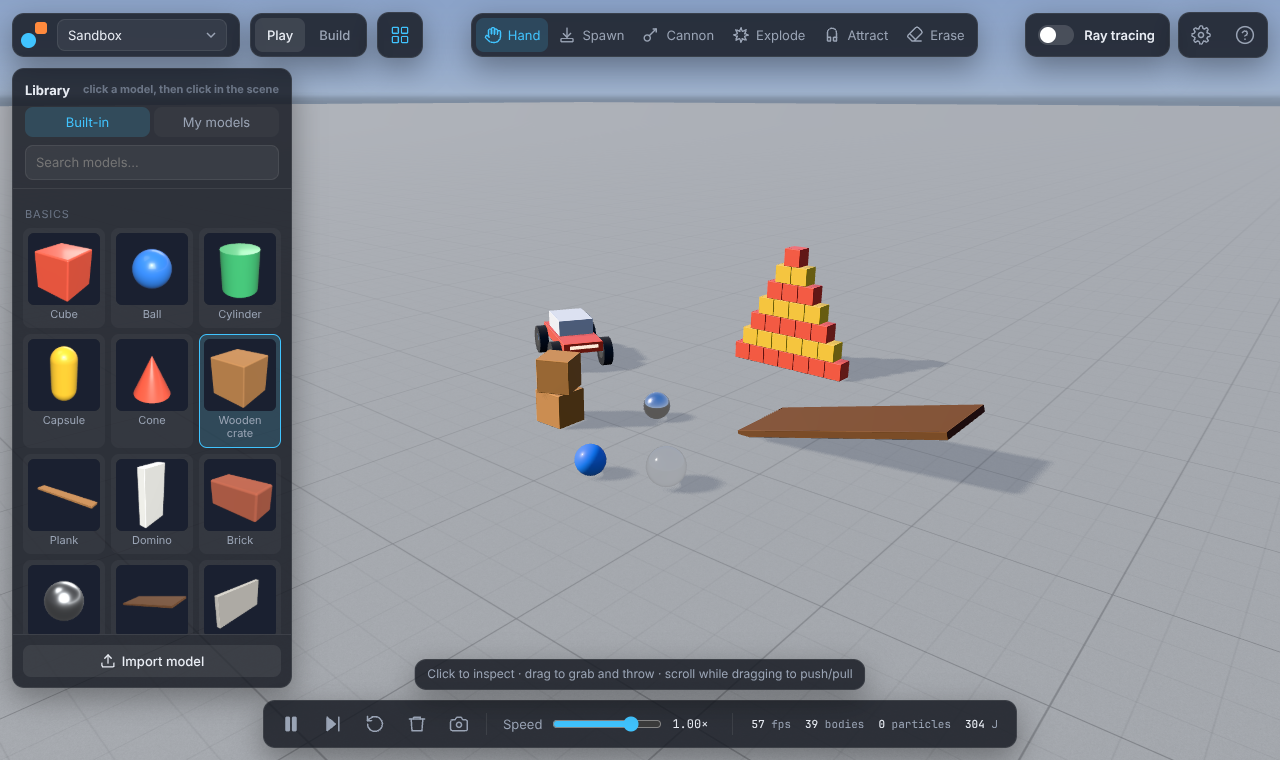
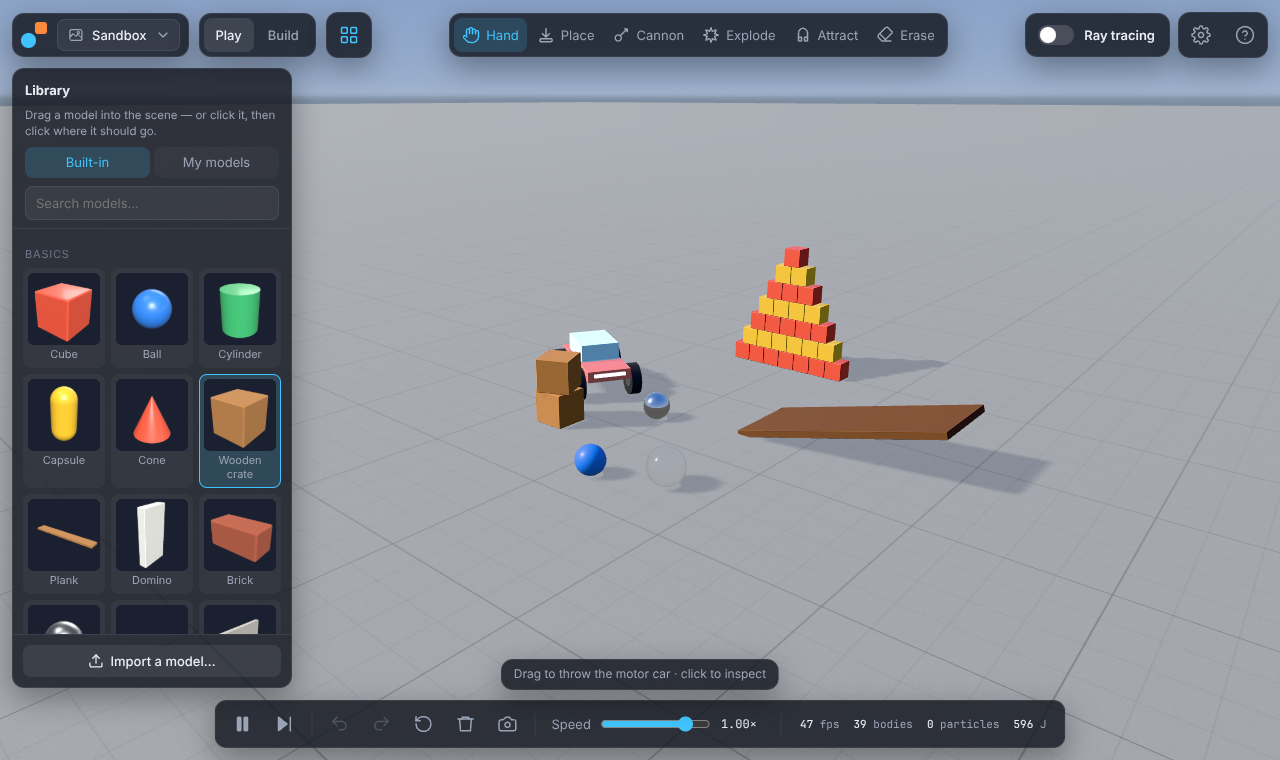
Docs: new controls, undo, Quick settings, scene gallery, Builder flow
Updates the README feature list and controls (Place tool, undo/redo,
drag-to-place, touch, Builder keys), the settings paths in the Blender
and Mac guides, and the sandbox screenshot for the new UI.

Claude-Session: https://claude.ai/code/session_016KG7xVeBGfcHsLQEUrtnxU

diff --git a/README.md b/README.md
@@ -18,6 +18,7 @@ Switch on **ray tracing** to see the scene with physically based light.
 
 ## What you can do
 
+- **Pick it up in a minute.** A short welcome and an optional guided tour on first launch. Objects light up under the cursor, and the hint bar says what a click will do. Drag any model from the library straight into the scene. Made a mess? **Undo** (Ctrl/⌘ + Z) takes back adds, deletes, explosions, throws and scene changes.
 - **Play.** Grab and throw objects; their mass matters. You also have a cannon, explosions, an attractor beam, an eraser, slow motion and single-frame stepping.
 - **Change the physics:**
   - gravity presets for Earth, Moon, Mars, Jupiter and zero-g
@@ -25,17 +26,19 @@ Switch on **ray tracing** to see the scene with physically based light.
   - attractor-only mode
   - wind with gusts, and air drag
   - solver settings
+
+  The common ones are big buttons under **Quick settings**: gravity, wind, speed, look and ray-tracing quality. Everything else is under **Advanced**.
 - **Ray tracing.** A progressive GPU path tracer ([three-gpu-pathtracer](https://github.com/gkjohnson/three-gpu-pathtracer)) renders:
   - soft shadows from a physically sized sun
   - reflections, glass and water refraction, and emissive lights
   - depth of field: double-click to focus
   - a denoiser, and photo export
 
-  While the simulation runs it shows a fast live preview. Pause, and the image converges.
+  While the simulation runs it shows a fast live preview. Press **Render still** (or pause), and the image converges; **Save** keeps the picture. Fast / Balanced / Best quality presets.
 - **Materials.** Each preset sets both the look and the physics: steel, chrome, gold, rubber, wood, glass, diamond, ice, foam, fabric, jelly, neon and more. Choosing *steel* makes the object 7,850 kg/m³ as well as shiny.
 - **Model library.** 60+ built-in models: basics, materials, machines (motor car, Newton's cradle, pendulum, wrecking ball, windmill, catapult, chain), structures (Jenga, dominoes, brick wall, bridge, Galton board, glass tank), soft & fluid (flags, curtain, trampoline, jelly, balloon, water, hose), space (stars and planets) and fun (ragdoll, bowling, teapot).
-- **15 scenarios:** Sandbox, Newton's Cradle, Domino Run, Jenga, Bowling, Wrecking Ball, Galton Board, Orbits, Three-Body Figure-8, Dam Break, Cloth Drape, Flag in the Wind, Jelly Playground, Glass Studio and Moon Base.
-- **Model Builder.** Assemble shapes into bodies and connect them with hinge, ball, fixed, slider, spring or rope joints, including limits and motors. Add cloth, jelly or water. Test-run the model, then save it to your library or export it as `.physmodel.json` or `.glb`.
+- **16 scenes in a gallery:** Sandbox, Empty World, Newton's Cradle, Domino Run, Jenga, Bowling, Wrecking Ball, Galton Board, Orbits, Three-Body Figure-8, Dam Break, Cloth Drape, Flag in the Wind, Jelly Playground, Glass Studio and Moon Base.
+- **Model Builder.** Assemble shapes into bodies with Move / Turn / Resize handles and optional snapping (5 cm, 15°). New shapes stack on the selected part instead of overlapping. Connect parts by picking a joint (hinge, ball, glue, slider, spring or rope), then clicking two parts, or one part and empty space to pin it to the world. Joints can have limits and motors. Add cloth, jelly or water. Test-run the model with every Play tool, then save it to your library or export it as `.glb` (for Blender) or `.physmodel.json`. A checklist walks you through your first model.
 - **Blender.** Import `.glb`, `.gltf`, `.obj` and `.stl`. The [Blender add-on](blender/physics_sim_addon.py) tags objects with physics settings and joints, then exports in one click. The Mac app hot-reloads every export. See **[docs/BLENDER.md](docs/BLENDER.md)**.
 - **Save and load whole scenes** as JSON.
 
@@ -57,17 +60,22 @@ Switch on **ray tracing** to see the scene with physically based light.
 
 | Key | Action |
 |---|---|
-| `1`–`6` | Hand · Spawn · Cannon · Explode · Attract · Erase |
+| `1`–`6` | Hand · Place · Cannon · Explode · Attract · Erase |
 | `Space` / `.` | Pause / step one frame |
-| `R` | Reset scenario |
+| `Ctrl/⌘ Z` / `Ctrl/⌘ ⇧ Z` | Undo / redo |
+| `R` | Reset the scene to how it started |
 | `T` | Ray tracing on/off |
 | `B` / `Esc` | Model Builder / back to Play |
 | `L` / `G` | Library / settings |
 | `F` / `Del` | Focus / delete the selection |
 | `P` | Save an image |
-| `H` | Help |
+| `H` | Help (and replay the tour) |
 
-Drag on empty space to orbit, right-drag to pan, and scroll to zoom. While grabbing, scroll to push the object away or pull it closer.
+Drag on empty space to orbit, right-drag to pan, and scroll to zoom. While grabbing, scroll to push the object away or pull it closer. Drag a model from the library into the scene to place it exactly, or double-click it to drop it in the middle of the view.
+
+On touch screens one finger uses the current tool, and two fingers turn, pan and zoom the camera. Below 760 px wide, the library and settings open as full-width sheets.
+
+In the Builder: `W` / `E` / `R` move, turn or resize; hold `Shift` while dragging to flip snapping; `Esc` cancels a joint in progress.
 
 ## How it works
 

diff --git a/docs/BLENDER.md b/docs/BLENDER.md
@@ -55,7 +55,7 @@ Apply the object's scale (**Ctrl+A → Scale**) for cloth and soft bodies.
 
 Press **Export for Physics Sim**. The file is written to the export folder as `<blend-file-name>.glb`.
 
-- **Mac app:** open **Settings → Blender live link → Choose watch folder…** and pick the same folder. Each export imports the model, or **reloads it in place** if it's already in your library. Every copy in the scene is replaced, so you can tweak a model in Blender and see it in the simulation seconds later.
+- **Mac app:** open **Settings → Advanced → Blender live link → Choose watch folder…** and pick the same folder. Each export imports the model, or **reloads it in place** if it's already in your library. Every copy in the scene is replaced, so you can tweak a model in Blender and see it in the simulation seconds later.
 - **Browser:** drag the `.glb` onto the app window, or use **Library → Import model**.
 
 ### Exporting without the add-on

diff --git a/docs/MAC.md b/docs/MAC.md
@@ -32,7 +32,7 @@ The code is identical, so a frame costs the same either way. The app is faster b
 ## Blender live link
 
 1. Install the Blender add-on (see [BLENDER.md](BLENDER.md)). Its default export folder is `~/Documents/Physics Sim/Blender`.
-2. The app watches that same folder from the first launch. To use another folder, go to **File → Blender Live Link Folder…** or **Settings → Blender live link**.
+2. The app watches that same folder from the first launch. To use another folder, go to **File → Blender Live Link Folder…** or **Settings → Advanced → Blender live link**.
 3. In Blender, press **Export for Physics Sim**:
    - A new file is imported into **My models**.
    - A file you've imported before is reloaded. Every placed copy in the scene is swapped for the new version, so you can model in Blender and test in the simulator side by side.
